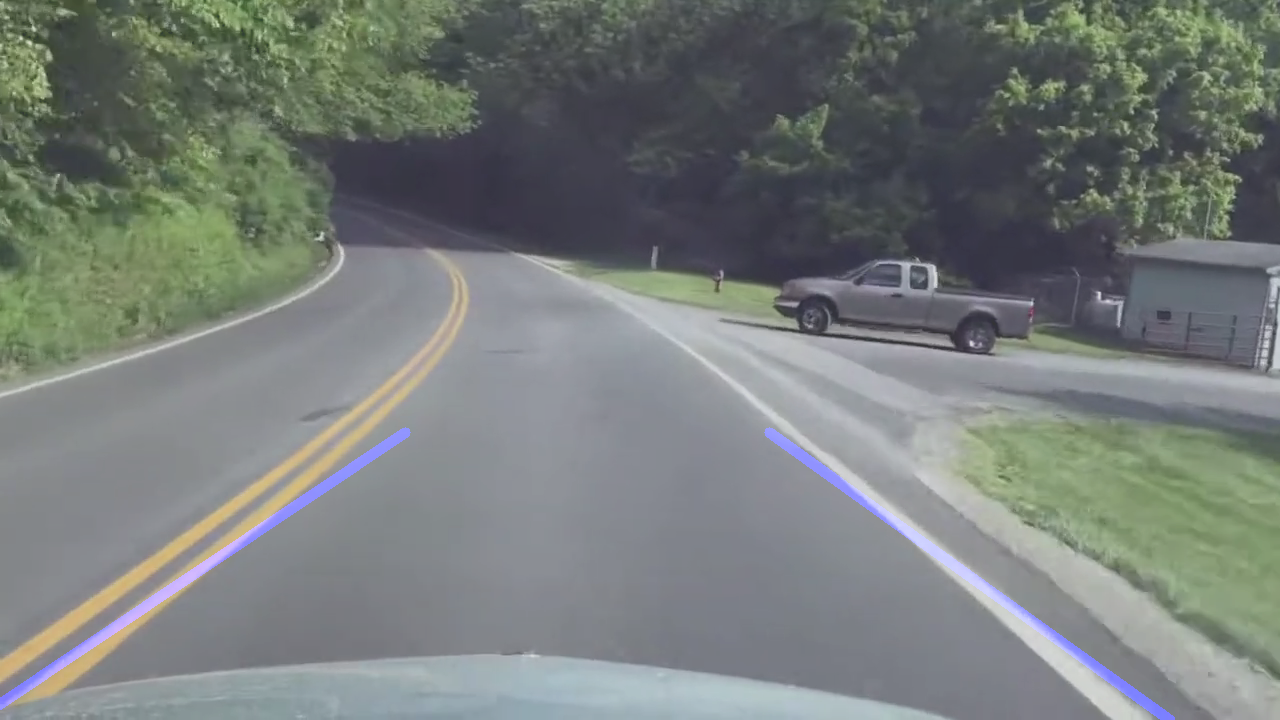
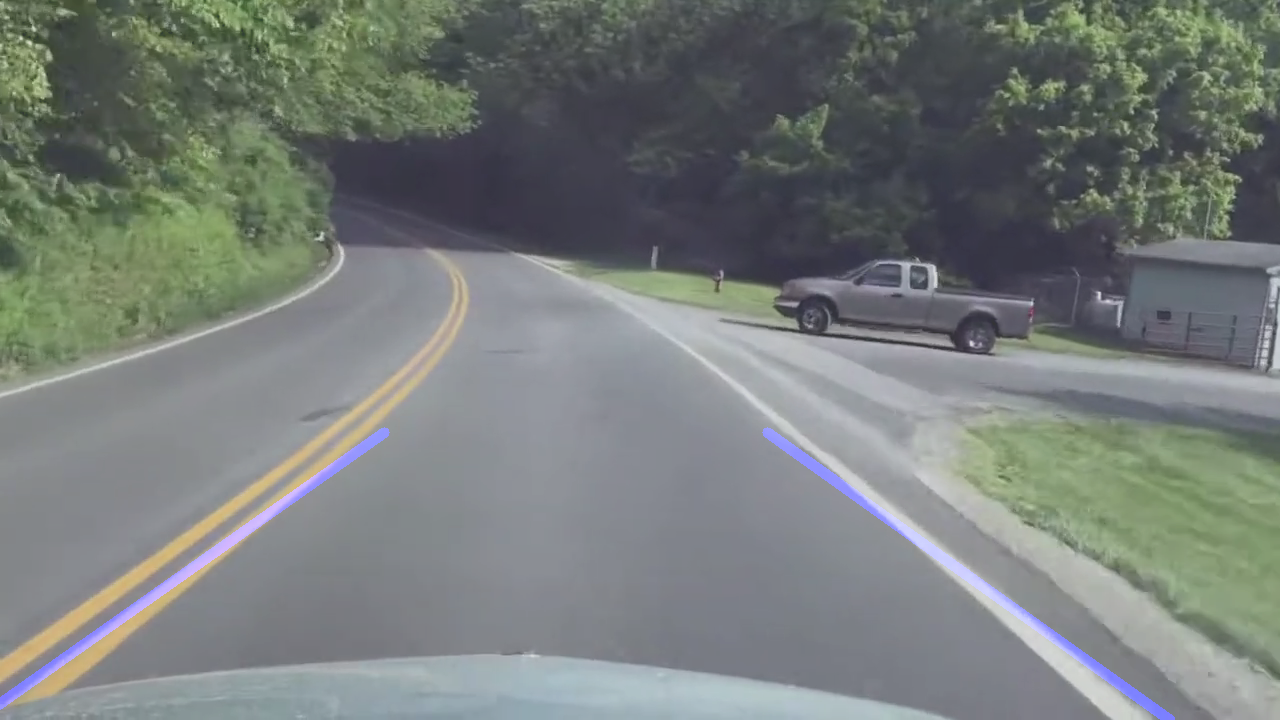
task 3 completed

Changed region(s): [[0.125, 0.5806, 0.3438, 0.825], [0.0312, 0.8556, 0.0938, 0.9472], [0.0938, 0.825, 0.125, 0.8556]]

diff --git a/task 3.py b/task 3.py
@@ -1,0 +1,46 @@
+import cv2
+import numpy as np
+
+image = cv2.imread(r'C:\Users\Dell\Desktop\Soumye Chauhan 26-B3-39\1.png')
+image = cv2.resize(image, (800, 600))
+output = image.copy()
+
+hsv = cv2.cvtColor(image, cv2.COLOR_BGR2HSV)
+
+lower_dark = np.array([0, 0, 0])
+upper_dark = np.array([180, 255, 80])
+mask = cv2.inRange(hsv, lower_dark, upper_dark)
+
+blurred = cv2.GaussianBlur(mask, (7, 7), 0)
+kernel = np.ones((5, 5), np.uint8)
+cleaned = cv2.morphologyEx(blurred, cv2.MORPH_CLOSE, kernel)
+
+contours, _ = cv2.findContours(cleaned, cv2.RETR_TREE, cv2.CHAIN_APPROX_SIMPLE)
+
+print("--- Detected Pothole Coordinates ---")
+
+for i, contour in enumerate(contours):
+    area = cv2.contourArea(contour)
+    
+
+    if 500 < area < 50000:
+
+        x, y, w, h = cv2.boundingRect(contour)
+        
+    
+        aspect_ratio = float(w) / h
+        if 0.3 < aspect_ratio < 3.0:
+            
+            print(f"Pothole #{i+1}: Top-Left=({x}, {y}), Width={w}, Height={h}, Bottom-Right=({x+w}, {y+h})")
+            
+            
+            cv2.rectangle(output, (x, y), (x + w, y + h), (0, 255, 0), 2)
+            
+        
+            coord_text = f"X:{x} Y:{y} W:{w} H:{h}"
+            cv2.putText(output, coord_text, (x, max(y - 10, 20)), 
+                        cv2.FONT_HERSHEY_SIMPLEX, 0.5, (0, 255, 0), 2)
+
+cv2.imshow('Pothole Bounding Boxes & Coordinates', output)
+cv2.waitKey(0)
+cv2.destroyAllWindows()

diff --git a/Task 1.py b/Task 1.py
@@ -11,7 +11,7 @@ def canny(img):
 def ROI(img):
     height = img.shape[0]
     polygons = np.array([
-        [(-100, height), (1500, height), (450, 250)]
+        [(-100, height), (1500, height), (450, 250), (300, 250)]
     ])
     mask = np.zeros_like(img)
     cv2.fillPoly(mask, polygons, 255)
